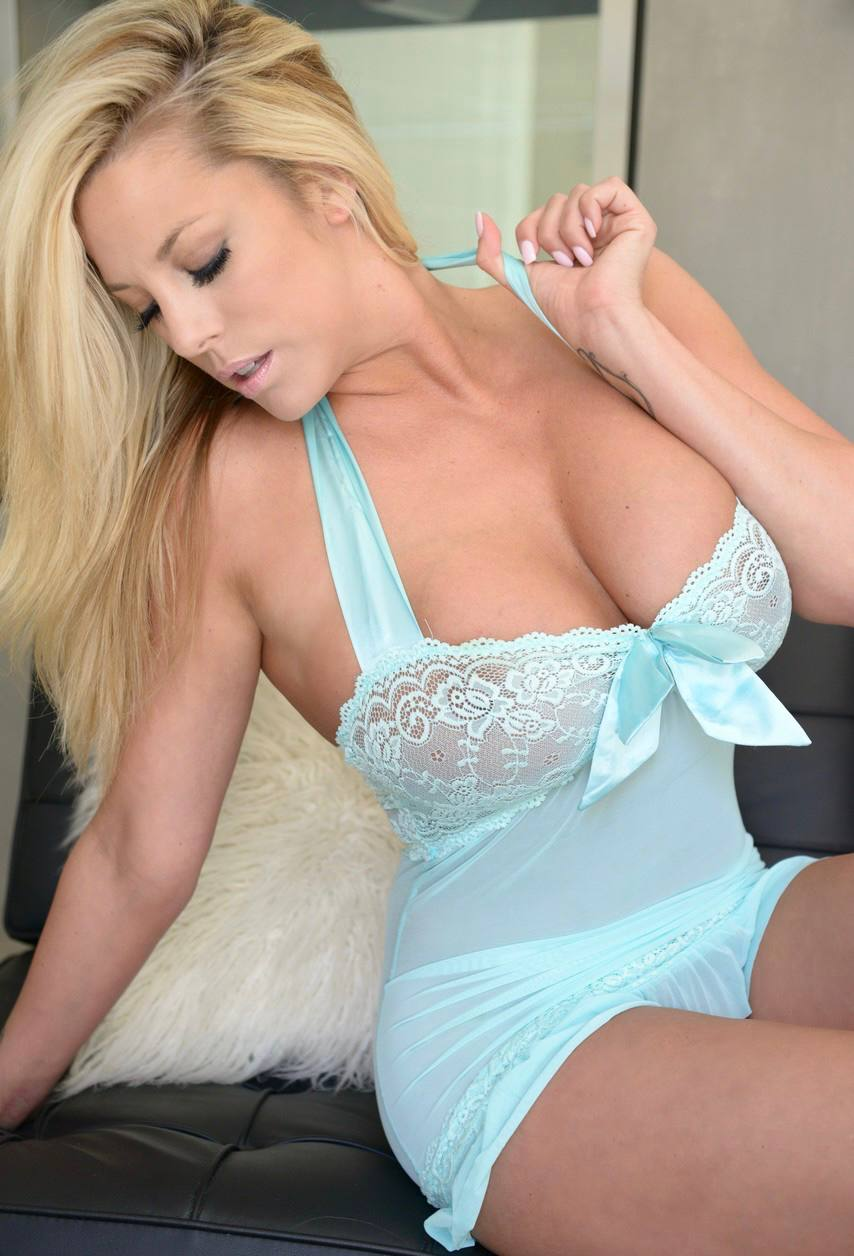
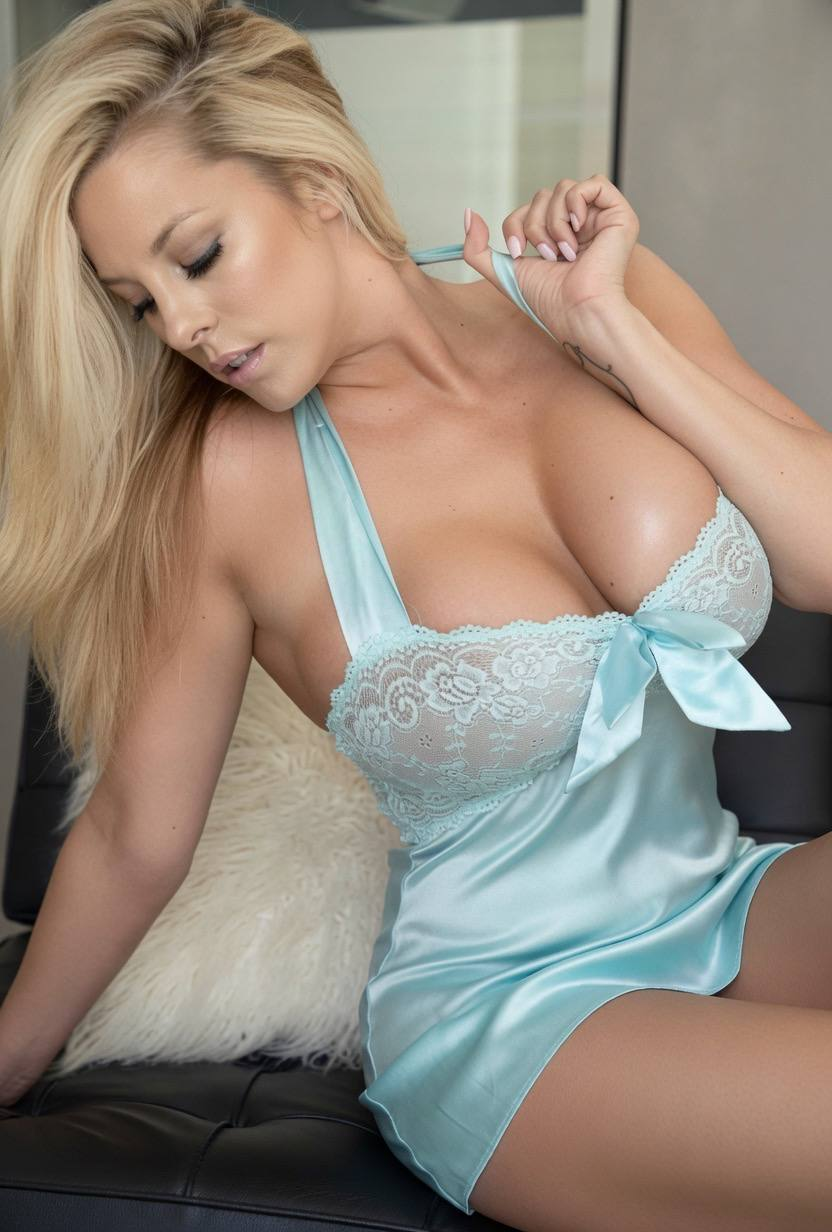
update pic

diff --git a/src/components/layout/footer.tsx b/src/components/layout/footer.tsx
@@ -26,8 +26,8 @@ export default function Footer() {
             <ul className="space-y-2">
               {[
                 { name: "Home", href: "/" },
-                { name: "About Us", href: "/about" },
-                { name: "Our Services", href: "/services" },
+                // { name: "About Us", href: "/about" },
+                // { name: "Our Services", href: "/services" },
                 { name: "Contact", href: "/contact" },
               ].map((link) => (
                 <li key={link.name}>
@@ -43,7 +43,7 @@ export default function Footer() {
           <div>
             <h4 className="font-serif text-lg mb-4">Services</h4>
             <ul className="space-y-2">
-              {["Massage Therapy", "Facial Treatments", "Body Treatments", "Specialty Services"].map((service) => (
+              {["Swedish Massage ", "Deep Tissue Massage ", "Hot Stone Massage ", "Sports Massage ", "Aromatherapy Massage", "Nuru Massage"].map((service) => (
                 <li key={service}>
                   <Link href="/services" className="text-spa-cream/70 hover:text-spa-orange transition-colors text-sm">
                     {service}
@@ -52,22 +52,21 @@ export default function Footer() {
               ))}
             </ul>
           </div>
-
           {/* Contact */}
           <div>
             <h4 className="font-serif text-lg mb-4">Contact Us</h4>
             <ul className="space-y-2 text-spa-cream/70 text-sm">
-              <li>123 Wellness Boulevard</li>
-              <li>Beverly Hills, CA 90210</li>
-              <li>+1 (555) 123-4567</li>
-              <li>info@relaxstudio.com</li>
+              <li>Available for both Incall & Outcall</li>
+              <li>+1 (615) 432-7943</li>
+              <li>Brookebaby1005@gmail.com</li>
+
             </ul>
           </div>
         </div>
 
         <div className="border-t border-spa-cream/20 pt-8 flex flex-col md:flex-row justify-between items-center gap-4">
           {/* Social Links */}
-          <div className="flex items-center gap-4">
+          {/* <div className="flex items-center gap-4">
             <Link href="#" className="hover:text-spa-orange transition-colors" aria-label="Facebook">
               <Facebook className="w-5 h-5" />
             </Link>
@@ -80,7 +79,7 @@ export default function Footer() {
             <Link href="#" className="hover:text-spa-orange transition-colors" aria-label="Youtube">
               <Youtube className="w-5 h-5" />
             </Link>
-          </div>
+          </div> */}
 
           {/* Copyright */}
           <p className="text-sm opacity-80">

diff --git a/src/components/hero/hero-section.tsx b/src/components/hero/hero-section.tsx
@@ -1,6 +1,6 @@
-
-import { ArrowRight } from "lucide-react"
-import { Button } from "../ui/button"
+import { ArrowRight } from "lucide-react";
+import { Button } from "../ui/button";
+import Link from "next/link";
 
 export default function HeroSection() {
   return (
@@ -15,23 +15,25 @@ export default function HeroSection() {
       </div>
 
       {/* Content */}
-      <div className="relative flex flex-col justify-center pt-64 max-w-[1236px] mx-auto px-6 w-full space-y-4">
-         <h1 className="font-serif text-5xl md:text-7xl lg:text-8xl text-spa-cream tracking-wide">
-            BROOKE&apos;S STUDIO
-          </h1>
+      <div className="relative flex flex-col justify-center pt-24 md:pt-32 max-w-[1236px] mx-auto px-6 w-full space-y-4">
+        <h1 className="font-serif text-5xl md:text-7xl lg:text-8xl text-spa-cream tracking-wide">
+          BROOKE&apos;S STUDIO
+        </h1>
         <div className="max-w-2xl">
           <p className="text-spa-cream/90 text-sm md:text-xl mb-4 leading-[40px]">
-            The pure sensation. Your expert therapeutic massage therapist uniquely skilled to help bring the entire
-            mind, body and wellness awareness to life. Treating you with each session
+            The pure sensation. Your expert therapeutic massage therapist
+            uniquely skilled to help bring the entire mind, body and wellness
+            awareness to life. Treating you with each session
           </p>
 
-          <Button className="bg-spa-orange hover:bg-spa-orange-light text-spa-cream px-8 py-3 rounded-full text-sm font-medium inline-flex items-center gap-2 mb-12">
-            Explore More
-            <ArrowRight className="w-4 h-4" />
-          </Button>
-
+          <Link href="/contact">
+            <Button className="bg-spa-orange py-4 px-16 hover:bg-spa-orange-light text-spa-cream  rounded-full text-base font-medium inline-flex items-center gap-2 mb">
+              Contact Me Today
+              <ArrowRight className="w-4 h-4" />
+            </Button>
+          </Link>
         </div>
       </div>
     </section>
-  )
+  );
 }

diff --git a/src/components/review/ReviewsSection.tsx b/src/components/review/ReviewsSection.tsx
@@ -22,7 +22,7 @@ const reviews: Review[] = [
     id: 1,
     name: "Teresa P",
     initials: "T",
-    date: "2024-05-16",
+    date: "2025-11-16",
     therapist: "Alexandria Brush",
     review: "Great therapist!",
     rating: 5,
@@ -32,7 +32,7 @@ const reviews: Review[] = [
     id: 2,
     name: "Coni D",
     initials: "CD",
-    date: "2024-04-20",
+    date: "2025-1-20",
     therapist: "Brooke Lerna",
     review: "Two thumbs up! Wonderful! Renews my health! Thanks again Brooke.",
     rating: 5,
@@ -42,7 +42,7 @@ const reviews: Review[] = [
     id: 3,
     name: "Teresa P",
     initials: "T",
-    date: "2023-05-12",
+    date: "2026-05-12",
     therapist: "Alexandria Brush",
     review: "Excellent service.",
     rating: 5,
@@ -52,7 +52,7 @@ const reviews: Review[] = [
     id: 4,
     name: "Bryan S",
     initials: "B",
-    date: "2023-03-29",
+    date: "2026-05-29",
     therapist: "Alexandria Brush",
     review: "Professional, caring and highly recommended.",
     rating: 4,
@@ -62,7 +62,7 @@ const reviews: Review[] = [
     id: 5,
     name: "Melissa R",
     initials: "M",
-    date: "2024-01-10",
+    date: "2026-06-10",
     therapist: "Brooke Lerna",
     review:
       "Amazing experience from start to finish. I left feeling refreshed.",
@@ -73,7 +73,7 @@ const reviews: Review[] = [
     id: 6,
     name: "David K",
     initials: "D",
-    date: "2023-11-18",
+    date: "2026-06-18",
     therapist: "Alexandria Brush",
     review: "Friendly staff and outstanding service. Will definitely return.",
     rating: 4,

diff --git a/src/app/contact/page.tsx b/src/app/contact/page.tsx
@@ -64,7 +64,7 @@ export default function ContactPage() {
     {
       icon: MapPin,
       title: "Visit Us",
-      details: ["In-Call & Out-Call"],
+      details: ["Available for both Incall & Outcall"],
     },
     {
       icon: Phone,
